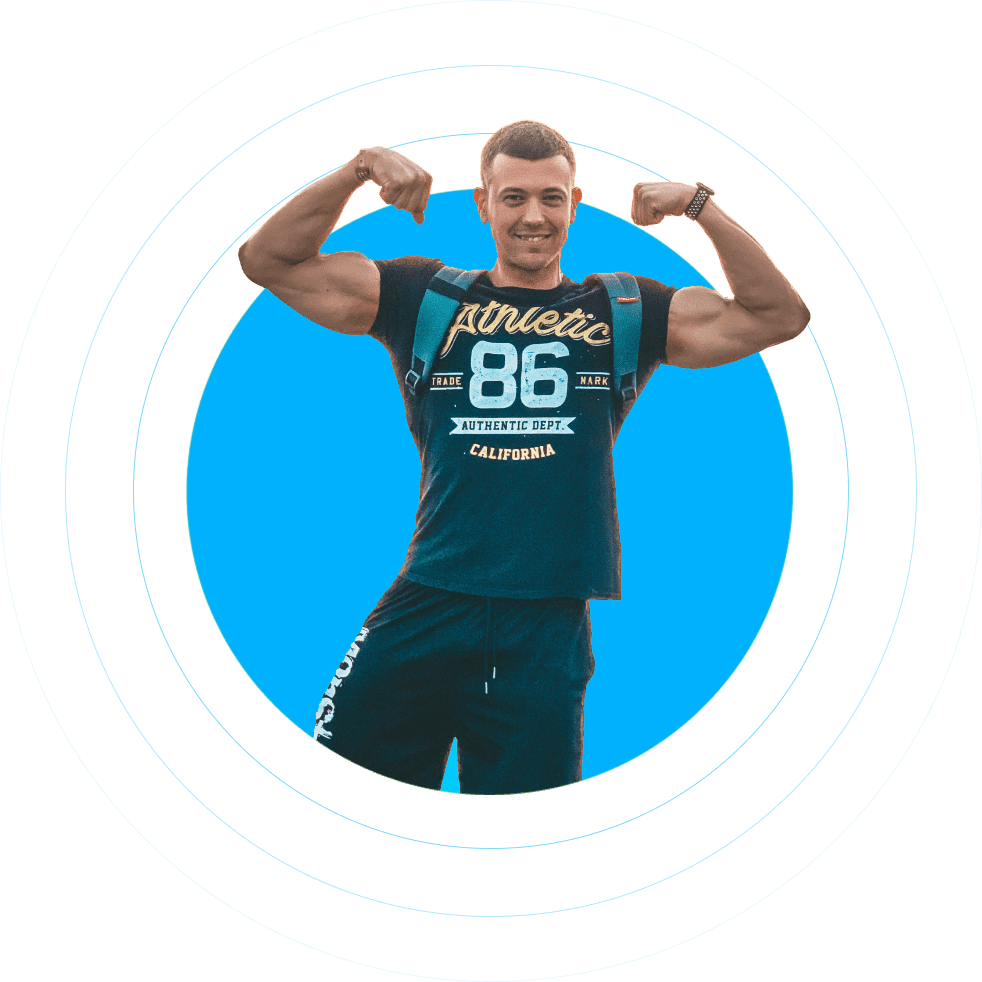
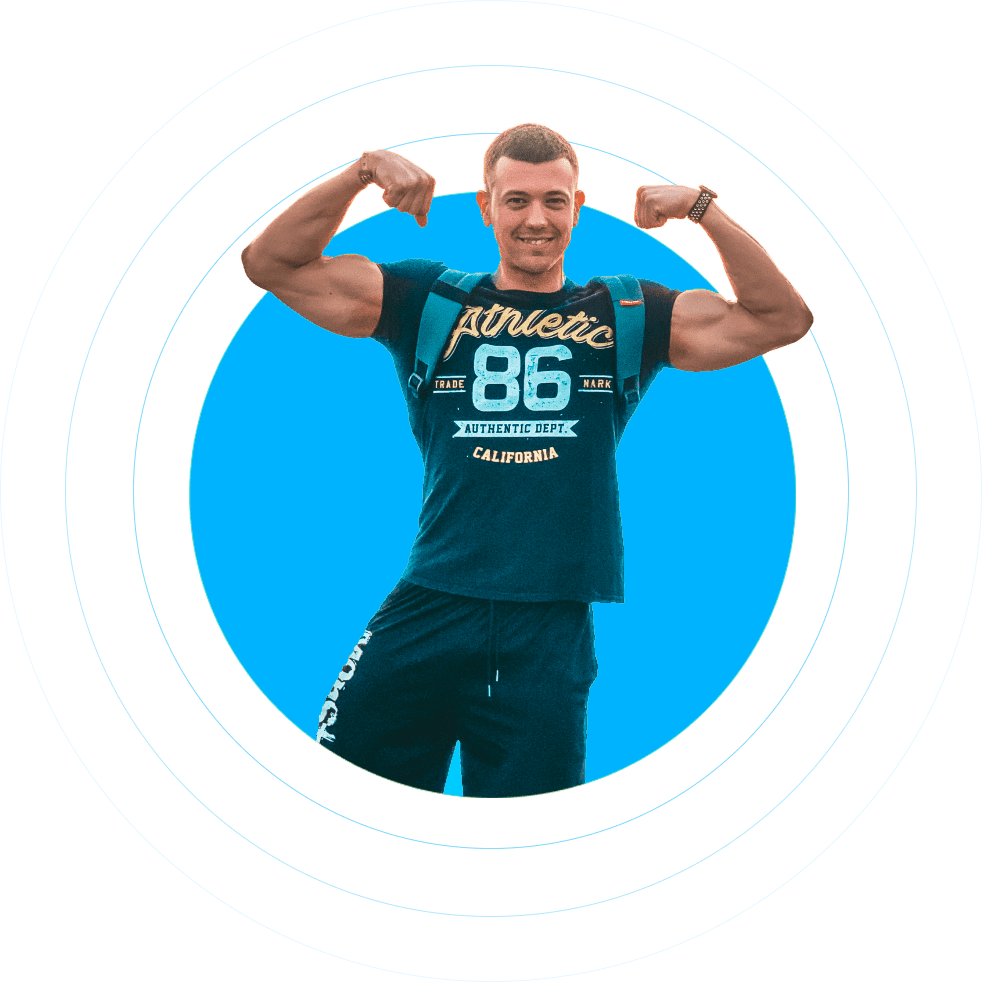
2312312

diff --git a/src/Layouts/MainLayout/Pages/Main/Block1/Block1.tsx b/src/Layouts/MainLayout/Pages/Main/Block1/Block1.tsx
@@ -82,9 +82,9 @@ class Block1 extends React.Component<Block1Props, Block1State> {
               <div className="MobileMenu__logo p-2">
                 <img className="img-fluid" src="/img/logo.png" alt="" />
               </div>
-              <div className="MobileMenu__closeButton d-flex" onClick={() => this.openMobileMenu()} >
-                Меню 
-                <img src="/img/burger.svg" alt=""/>
+              <div className="MobileMenu__closeButton d-flex" onClick={() => this.openMobileMenu()}>
+                Меню
+                <img src="/img/burger.svg" alt="" />
               </div>
             </Row>
           </Container>
@@ -101,10 +101,7 @@ class Block1 extends React.Component<Block1Props, Block1State> {
 
                 <Row className="Block1__Row2DescrBlock">
                   <Col md={8} className="Block1__Row2DescrLeft">
-                    <div>
-                      В основе метода <span>нутрициология</span>, <span>психология</span> и{' '}
-                      <span>физическая активность</span>
-                    </div>
+                    <div>Без использования диет! Основа метода: психология, нутрициология и физическая активность.</div>
                   </Col>
                   <Col md={4} className="Block1__Row2DescrRight">
                     {/* <div>
@@ -141,10 +138,7 @@ class Block1 extends React.Component<Block1Props, Block1State> {
 
             <Row className="Block1__Row2DescrBlock p-0 m-0">
               <Col xs={12} className="Block1__Row2DescrLeft">
-                <div>
-                  В основе метода - <span>нутрициология</span>, <span>психология</span> и{' '}
-                  <span>физические нагрузки</span>
-                </div>
+                <div>Без использования диет! Основа метода: психология, нутрициология и физическая активность.</div>
               </Col>
               <Col xs={12} className="Block1__Row2DescrRight">
                 {/* <div>

diff --git a/src/Layouts/MainLayout/Pages/Main/Achivements/Achivements.tsx b/src/Layouts/MainLayout/Pages/Main/Achivements/Achivements.tsx
@@ -17,11 +17,11 @@ class Achivements extends React.Component<AchivementsProps, AchivementsState> {
           <div className="container">
             <div className="row">
               <div className="col-md-6">
-                <div className="Achivements__card">Вице-чемпион России и кубка Восточной Европы</div>
+                <div className="Achivements__card">Вице-чемпион Кубка России и Кубка Восточной Европы</div>
                 <div className="Achivements__card">Вице-чемпион Астраханской области</div>
-                <div className="Achivements__card">Вице-чемпион кубка Сочи</div>
-                <div className="Achivements__card">Чемпион турнира Гран-при Анапа</div>
-                <div className="Achivements__card">Призёр ЮФО на турнире «Самсон 46»</div>
+                <div className="Achivements__card">Вице-чемпион Кубка Сочи</div>
+                <div className="Achivements__card">Чемпион турнира Гран-при Анапы</div>
+                <div className="Achivements__card">Призёр турнира ЮФО «Самсон-46»</div>
                 <div className="Achivements__card">Вошёл в ТОП 6 на чемпионате России</div>
                 <div className="Achivements__card">Действующий спортсмен</div>
               </div>
@@ -45,7 +45,9 @@ class Achivements extends React.Component<AchivementsProps, AchivementsState> {
                     <div className="Achivements__text">
                       <div className="w-100">
                         <p>Цель: cоревнования.</p>
-                        <p>Разница во времени между фото – <b>14 месяцев.</b></p>
+                        <p>
+                          Разница во времени между фото – <b>14 месяцев.</b>
+                        </p>
                       </div>
                     </div>
                   </div>

diff --git a/src/Layouts/MainLayout/Pages/Main/Block8/Block8.tsx b/src/Layouts/MainLayout/Pages/Main/Block8/Block8.tsx
@@ -67,7 +67,7 @@ class Block8 extends React.Component<Block8Props, Block8State> {
                   <span>Цель:</span> снижение процента подкожного жира.
                 </div>
                 <div className="Block8__cardDescrLine">
-                  Разница во времени фото <span>1 месяц</span>
+                  Разница во времени фото - <span>1 месяц</span>
                 </div>
                 <div className="Block8__cardDescrLine">
                   <span>Результат:</span>
@@ -128,7 +128,7 @@ class Block8 extends React.Component<Block8Props, Block8State> {
                 <div className="Block8__cardDescrLine">
                   <span>Цель:</span> cнижение процента подкожного жира и набор мышечной массы.
                   <p>
-                    Разница во времени между фото – <span>10 недель.</span>
+                    Разница во времени между фото – <span>2 месяца.</span>
                   </p>
                 </div>
                 <div className="Block8__cardDescrLine">
@@ -192,6 +192,15 @@ class Block8 extends React.Component<Block8Props, Block8State> {
                 </div>
                 <div className="Block8__cardDescrLine">
                   Разница во времени фото - <span>10 недель</span>
+                </div>
+                <div className="Block8__cardDescrLine">
+                  <span>Результат:</span>
+                </div>
+                <div className="Block8__cardDescrLine">
+                  <ul style={{ listStyleImage: 'url(img/marker.svg)' }}>
+                    <li>Увеличение веса на 5 кг;</li>
+                    <li>Дисциплина – гарант достижения качественного результата.</li>
+                  </ul>
                 </div>
               </div>
             </Col>

diff --git a/src/SharedComponents/MobileMenu/MobileMenu.tsx b/src/SharedComponents/MobileMenu/MobileMenu.tsx
@@ -93,7 +93,14 @@ class MobileMenu extends React.Component<MobileMenuProps, MobileMenuState> {
 
         <Container className="MobileMenu__messengersCont d-flex align-items-end">
           <Container className="MobileMenu__messengers p-0">
-            <Row className="MobileMenu__MC m-0 h-100">
+            <Row
+              className="MobileMenu__MC m-0 h-100"
+              style={{
+                backgroundImage: `url("/img/contacts_photo.png")`,
+                backgroundSize: 'cover',
+                backgroundRepeat: 'no-repeat',
+              }}
+            >
               <Col xs={8} className="p-0 pl-4 d-flex align-items-center">
                 <div className="MobileMenu__LeftContent">
                   <h1>Напишите мне</h1>
@@ -124,7 +131,7 @@ class MobileMenu extends React.Component<MobileMenuProps, MobileMenuState> {
               </Col>
 
               <Col className="MobileMenu__photo p-0 d-flex align-items-end justify-content-end" xs={4}>
-                <img src="/img/contacts_photo.png" alt="" />
+                {/* <img src="/img/contacts_photo.png" alt="" /> */}
               </Col>
             </Row>
           </Container>

diff --git a/src/Layouts/MainLayout/Pages/Main/Block11/Block11.tsx b/src/Layouts/MainLayout/Pages/Main/Block11/Block11.tsx
@@ -45,7 +45,7 @@ class Block11 extends React.Component<Block11Props, Block11State> {
                   borderRadius="8px"
                   boxShadow="0px 8px 10px rgba(0, 0, 0, 0.13)"
                 >
-                  Имею квалификацию тренера Международного класса
+                  Имею квалификацию тренера международного класса
                 </DashedBorderBlock>
 
                 <DashedBorderBlock

diff --git a/src/Layouts/MainLayout/Pages/Main/Block2/Block2.scss b/src/Layouts/MainLayout/Pages/Main/Block2/Block2.scss
@@ -36,6 +36,7 @@
       }
 
       .gromovImg {
+        margin-left: -20px;
         height: 90%;
       }
 
@@ -55,7 +56,7 @@
         }
 
         .bottomEnd {
-          margin-right: -30px;
+          // margin-right: -30px;
         }
       }
 

diff --git a/src/SharedComponents/MobileMenu/MobileMenu.scss b/src/SharedComponents/MobileMenu/MobileMenu.scss
@@ -106,4 +106,10 @@
   .MobileMenu__MC {
     overflow: hidden;
   }
+
+  @media screen and(max-width:400px) {
+    .MobileMenu__MC {
+      background-position: right 50px;
+    }
+  }
 }

diff --git a/src/Layouts/MainLayout/Pages/Main/Block7/Block7.scss b/src/Layouts/MainLayout/Pages/Main/Block7/Block7.scss
@@ -6,7 +6,7 @@
     // overflow-x: hidden;
     img {
       width: 700px;
-      margin-bottom: -90px;
+      margin-bottom: -100px;
     }
   }
 
